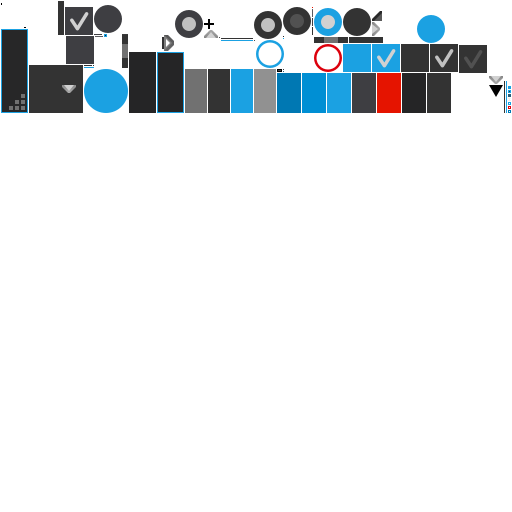
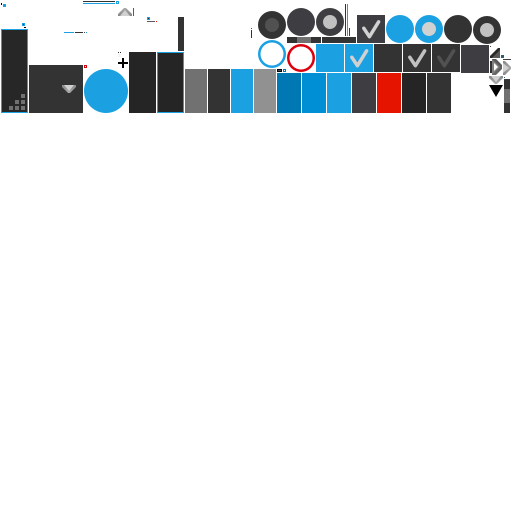
Add FileChooser favorite folder button

Changed region(s): [[0.3125, 0.0, 1.0, 0.2188], [0.0938, 0.0, 0.2812, 0.125]]

diff --git a/ui/src/com/kotcrab/vis/ui/widget/file/FileChooser.java b/ui/src/com/kotcrab/vis/ui/widget/file/FileChooser.java
@@ -33,8 +33,10 @@ import com.kotcrab.vis.ui.util.dialog.Dialogs;
 import com.kotcrab.vis.ui.util.dialog.Dialogs.OptionDialogType;
 import com.kotcrab.vis.ui.util.dialog.InputDialogAdapter;
 import com.kotcrab.vis.ui.util.dialog.OptionDialogAdapter;
+import com.kotcrab.vis.ui.util.value.PrefWidthIfVisibleValue;
 import com.kotcrab.vis.ui.widget.*;
 import com.kotcrab.vis.ui.widget.ButtonBar.ButtonType;
+import com.kotcrab.vis.ui.widget.Tooltip;
 import com.kotcrab.vis.ui.widget.file.internal.*;
 import com.kotcrab.vis.ui.widget.file.internal.DriveCheckerService.DriveCheckerListener;
 import com.kotcrab.vis.ui.widget.file.internal.DriveCheckerService.RootMode;
@@ -109,6 +111,8 @@ public class FileChooser extends VisWindow implements FileHistoryCallback {
 	private VerticalGroup shortcutsRootsPanel;
 	private VerticalGroup shortcutsFavoritesPanel;
 
+	private VisImageButton favoriteFolderButton;
+	private Tooltip favoriteFolderButtonTooltip;
 	private VisTextField currentPath;
 	private VisTextField selectedFileTextField;
 	private VisTextButton confirmButton;
@@ -226,11 +230,19 @@ public class FileChooser extends VisWindow implements FileHistoryCallback {
 		});
 
 		VisImageButton folderParentButton = new VisImageButton(style.iconFolderParent, PARENT_DIRECTORY.get());
+		favoriteFolderButton = new VisImageButton(style.iconStar);
+		favoriteFolderButtonTooltip = new Tooltip.Builder(CONTEXT_MENU_ADD_TO_FAVORITES.get()).target(favoriteFolderButton).build();
 		VisImageButton folderNewButton = new VisImageButton(style.iconFolderNew, NEW_DIRECTORY.get());
 
 		toolbarTable.add(historyManager.getButtonsTable());
 		toolbarTable.add(currentPath).expand().fill();
 		toolbarTable.add(folderParentButton);
+		toolbarTable.add(favoriteFolderButton).width(PrefWidthIfVisibleValue.INSTANCE).spaceRight(new Value() {
+			@Override
+			public float get (Actor context) {
+				return favoriteFolderButton.isVisible() ? sizes.spacingRight : 0;
+			}
+		});
 		toolbarTable.add(folderNewButton);
 
 		folderParentButton.addListener(new ChangeListener() {
@@ -246,6 +258,17 @@ public class FileChooser extends VisWindow implements FileHistoryCallback {
 			}
 		});
 
+		favoriteFolderButton.addListener(new ChangeListener() {
+			@Override
+			public void changed (ChangeEvent event, Actor actor) {
+				if (favorites.contains(currentDirectory, false)) {
+					removeFavorite(currentDirectory);
+				} else {
+					addFavorite(currentDirectory);
+				}
+			}
+		});
+
 		folderNewButton.addListener(new ChangeListener() {
 			@Override
 			public void changed (ChangeEvent event, Actor actor) {
@@ -254,6 +277,20 @@ public class FileChooser extends VisWindow implements FileHistoryCallback {
 		});
 
 		addListener(historyManager.getDefaultClickListener());
+	}
+
+	private void updateFavoriteFolderButton () {
+		VisLabel label = (VisLabel) favoriteFolderButtonTooltip.getContent();
+
+		if (favorites.contains(currentDirectory, false)) {
+			favoriteFolderButton.getStyle().imageUp = style.iconStar;
+			label.setText(CONTEXT_MENU_REMOVE_FROM_FAVORITES.get());
+		} else {
+			favoriteFolderButton.getStyle().imageUp = style.iconStarOutline;
+			label.setText(CONTEXT_MENU_ADD_TO_FAVORITES.get());
+		}
+
+		favoriteFolderButtonTooltip.pack();
 	}
 
 	private void createCenterContentPanel () {
@@ -627,6 +664,7 @@ public class FileChooser extends VisWindow implements FileHistoryCallback {
 		favoritesIO.saveFavorites(favorites);
 		rebuildShortcutsFavoritesPanel();
 		rebuildShortcutsList(false);
+		updateFavoriteFolderButton();
 	}
 
 	/**
@@ -639,6 +677,7 @@ public class FileChooser extends VisWindow implements FileHistoryCallback {
 		favoritesIO.saveFavorites(favorites);
 		rebuildShortcutsFavoritesPanel();
 		rebuildShortcutsList(false);
+		updateFavoriteFolderButton();
 		return removed;
 	}
 
@@ -763,6 +802,8 @@ public class FileChooser extends VisWindow implements FileHistoryCallback {
 		rebuildFileList();
 
 		if (historyPolicy == HistoryPolicy.CLEAR) historyManager.historyClear();
+
+		updateFavoriteFolderButton();
 	}
 
 	@Override
@@ -802,6 +843,14 @@ public class FileChooser extends VisWindow implements FileHistoryCallback {
 				getTitleLabel().setText(TITLE_CHOOSE_FILES_AND_DIRECTORIES.get());
 				break;
 		}
+	}
+
+	public void setFavoriteFolderButtonVisible (boolean favoriteFolderButtonVisible) {
+		favoriteFolderButton.setVisible(favoriteFolderButtonVisible);
+	}
+
+	public boolean isFavoriteFolderButtonVisible () {
+		return favoriteFolderButton.isVisible();
 	}
 
 	public boolean isMultiSelectionEnabled () {

diff --git a/ui/src/com/kotcrab/vis/ui/widget/file/FileChooserStyle.java b/ui/src/com/kotcrab/vis/ui/widget/file/FileChooserStyle.java
@@ -31,6 +31,8 @@ public class FileChooserStyle {
 	public Drawable iconFolderNew;
 	public Drawable iconDrive;
 	public Drawable iconTrash;
+	public Drawable iconStar;
+	public Drawable iconStarOutline;
 
 	public Drawable iconFileText;
 	public Drawable iconFileImage;

diff --git a/ui/CHANGES.md b/ui/CHANGES.md
@@ -5,6 +5,7 @@
 - **Added**: VisTextField read-only mode (`VisTextField#setReadOnly(boolean)`)
 - **Added**: `VisTextField#keyTypedRepeatTime`
 - **Added**: `TabbedPane#getUIOrderedTabs()`
+- **Added**: `FileChooser#setFavoriteFolderButtonVisible(true)` - FileChooser now can display 'add folder to favorites' button in the toolbar 
 - **Changed**: [#169](https://github.com/kotcrab/vis-editor/issues/169) - `TabbedPane#getTable()` returns `TabbedPaneTable` (holds reference to `TabbedPane` and allow to easily get it's cells for customization)
 - **Changed**: `FileChooser` now tries to maintain selection while rebuilding file list
 - **Changed**: `FileChooser` will now select new folder after creating it 
@@ -20,7 +21,8 @@
 - **Fixed**: `FileChooser` NPE when error occurred during directory deleting
 - **Fixed**: `FileChooser` non empty directories are now deleted correctly when using default `FileChooser` deleter
 - **Skin changes**:
-    - **Added**: drawable `window-border-bg.9`
+    - **Changed**: `FileChooserStyle`: added drawable fields: `iconStar` and `iconStarOutline`
+    - **Added**: drawable `window-border-bg.9`, `icon-star`, `icon-star-outline`
     - **Added**: style `BaseToastStyle`
     - **Added**: VisTextField `label` style - if combined with read-only mode allows to create selectable labels
 
